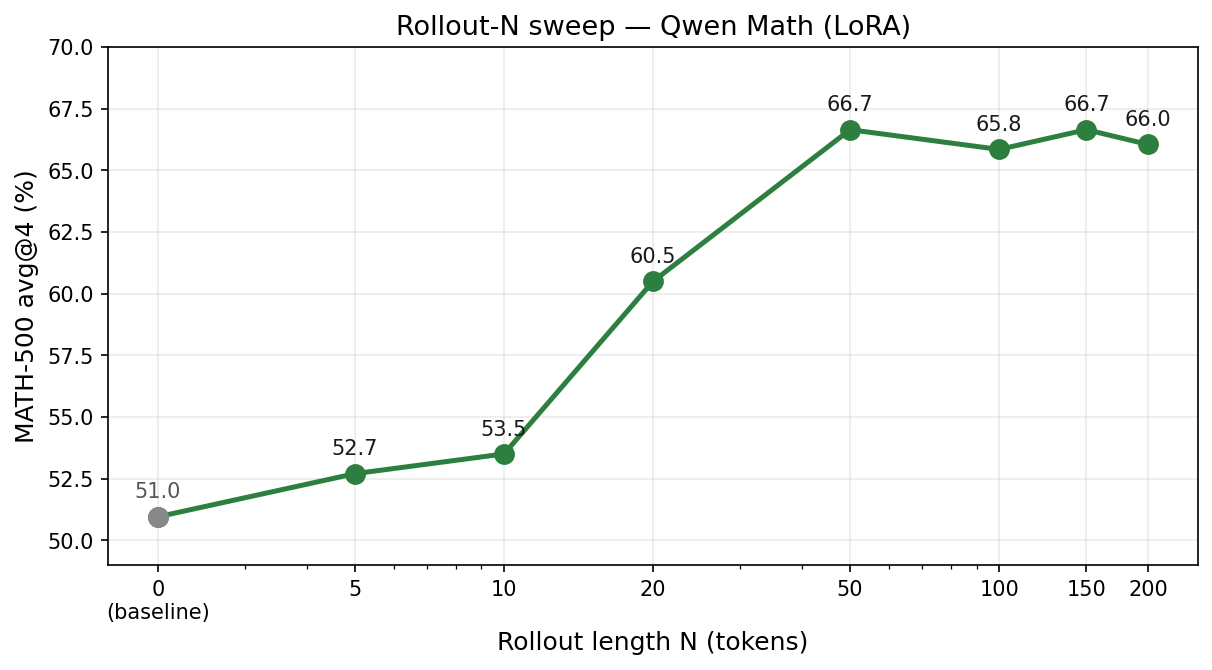
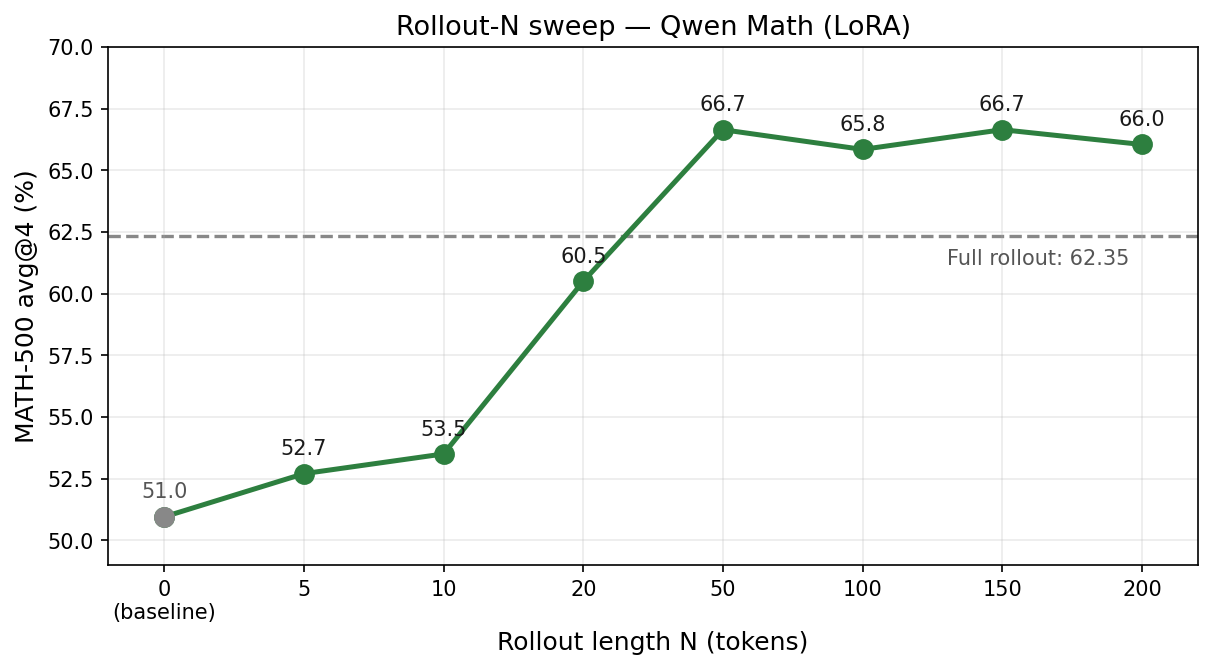
Fix undefined refs; redo N-sweep figure with equal-spaced x-axis + Full Rollout reference
- main.tex: \ref{fullft_math} → \ref{tab:fullft_math}, \ref{scaling_math} → \ref{tab:scaling_math}
- fig_n_sweep.png: switch x-axis from log scale to categorical (equal gaps
  between baseline, 5, 10, 20, 50, 100, 150, 200) and add a grey dashed
  Full Rollout reference line at 62.35 avg@4

diff --git a/main.tex b/main.tex
@@ -163,7 +163,7 @@ If the student emits EOS before position $N$, the rollout terminates naturally. 
 \subsection{Overall performance}
 \label{sec:main_results_sub}
 
-Table~\ref{tab:main_results} presents the main results across tasks and model families. Table ~\ref{fullft_math} presents ablation results with full finetuning. Table ~\ref{scaling_math} shows model size scaling results. We report the best performance achieved across all training steps for each configuration. But notice that full rollout distillation frequently collapse to much lower performance as it trains. We denote the sessions that collapses with a down arrows.
+Table~\ref{tab:main_results} presents the main results across tasks and model families. Table~\ref{tab:fullft_math} presents ablation results with full finetuning. Table~\ref{tab:scaling_math} shows model size scaling results. We report the best performance achieved across all training steps for each configuration. But notice that full rollout distillation frequently collapse to much lower performance as it trains. We denote the sessions that collapses with a down arrows.
 
 \begin{table}[t]
 \centering